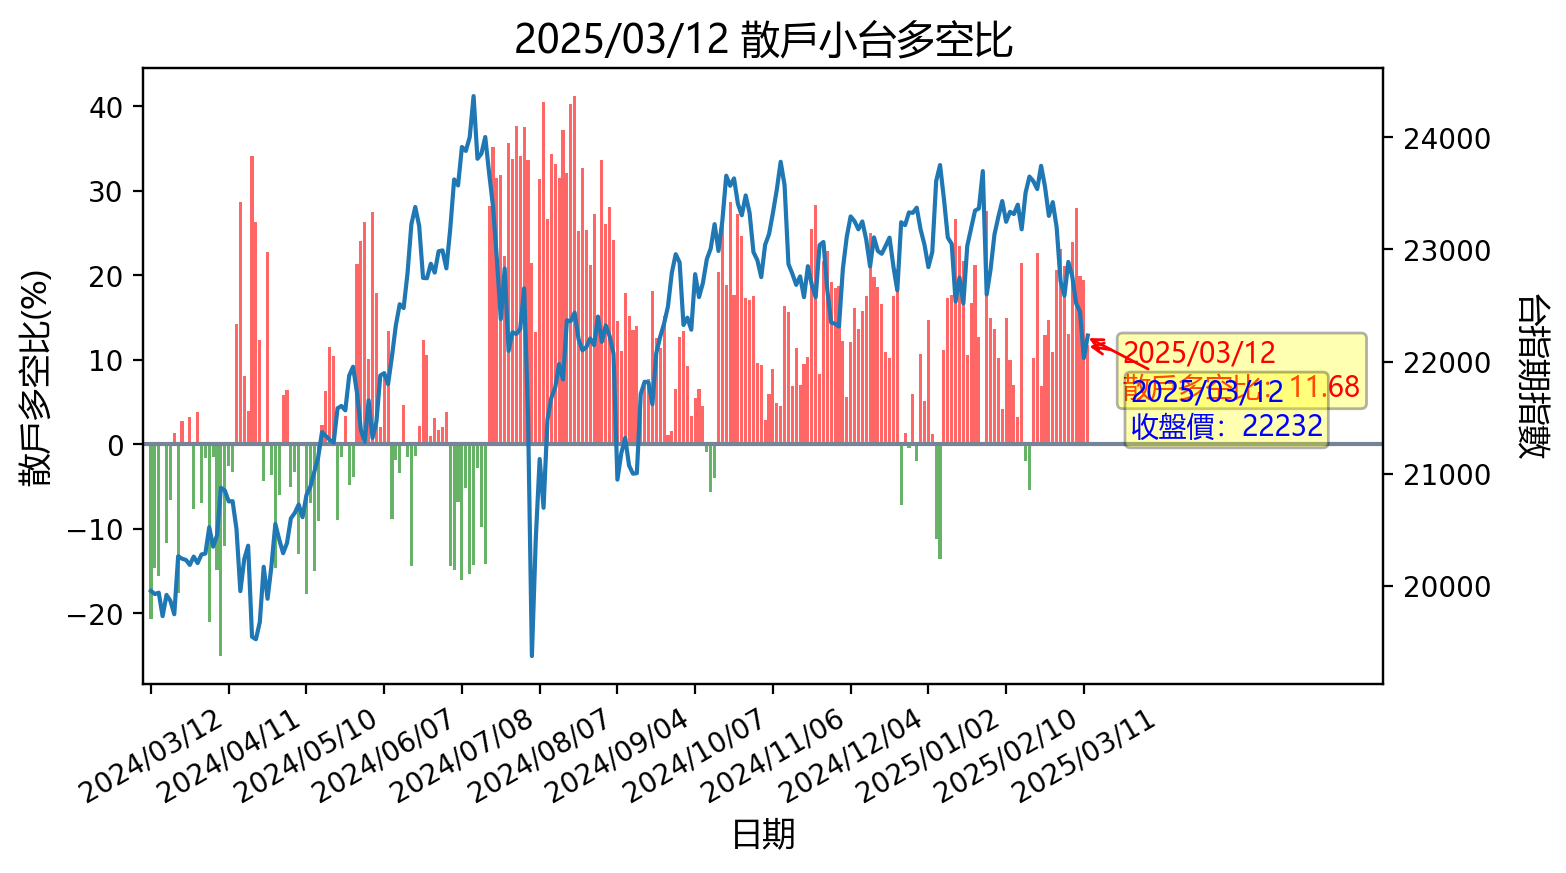
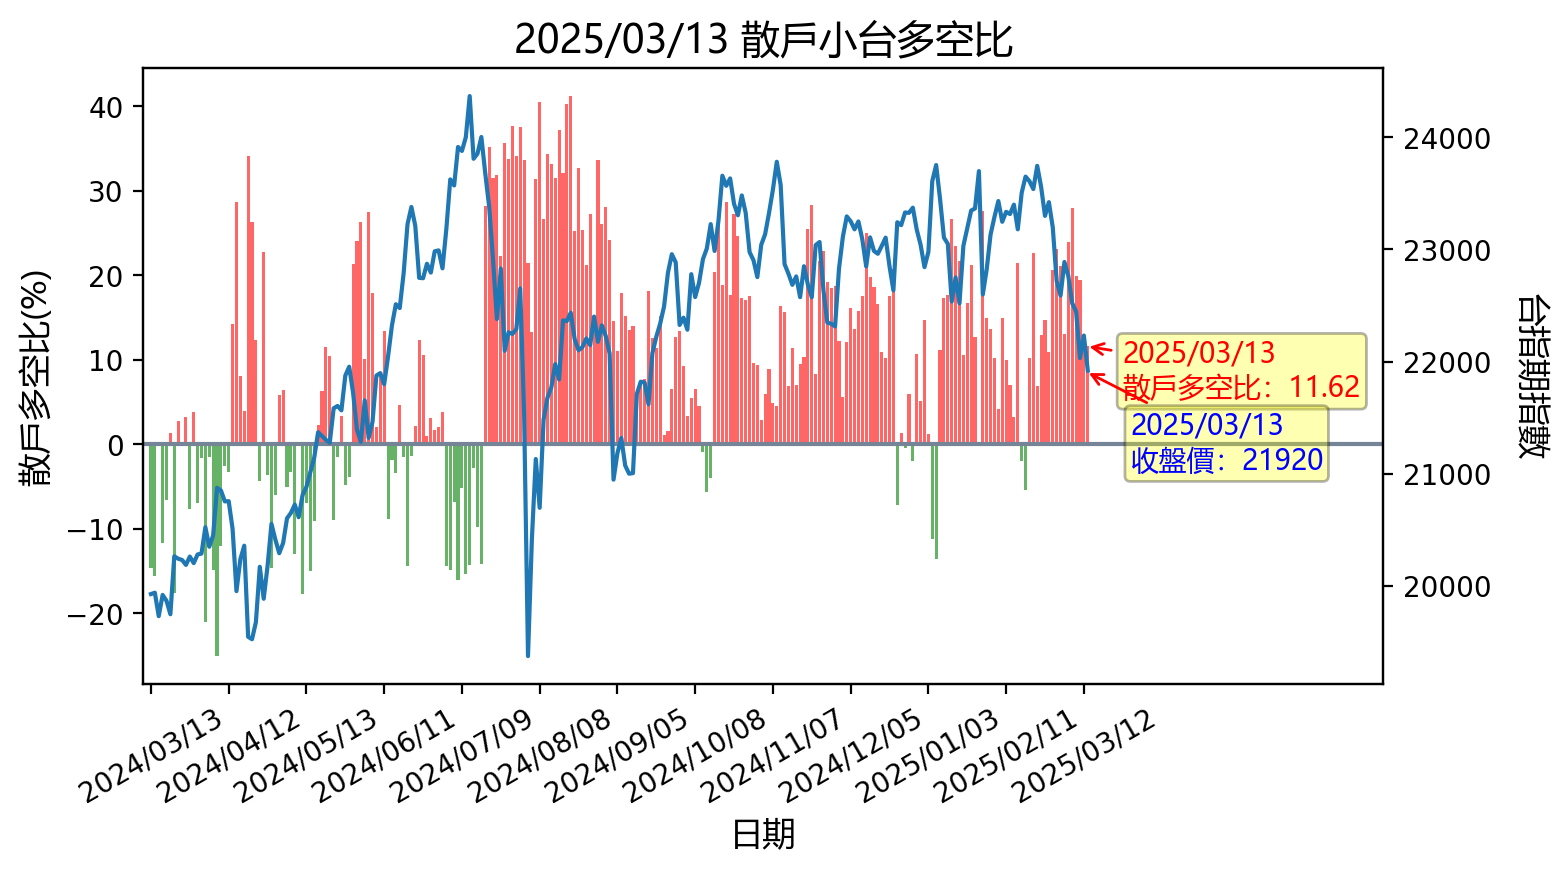
更新時間: Thu Mar 13 16:37:28 CST 2025

diff --git a/README.md b/README.md
@@ -1,12 +1,12 @@
-## 20250312 台指期「預估換倉成本」
+## 20250313 台指期「預估換倉成本」
 ![](images/txfcost.png)
 
-## 20250312 台指期「散戶小台多空比」
+## 20250313 台指期「散戶小台多空比」
 ![](images/bbiri.png)
 
-## 20250312 台指選擇權「Put/Call Ratios」
+## 20250313 台指選擇權「Put/Call Ratios」
 ![](images/pcratio.png)
 
-## 20250312 台指期「大額交易人」
+## 20250313 台指期「大額交易人」
 ![](images/blocktrade.png)
 
